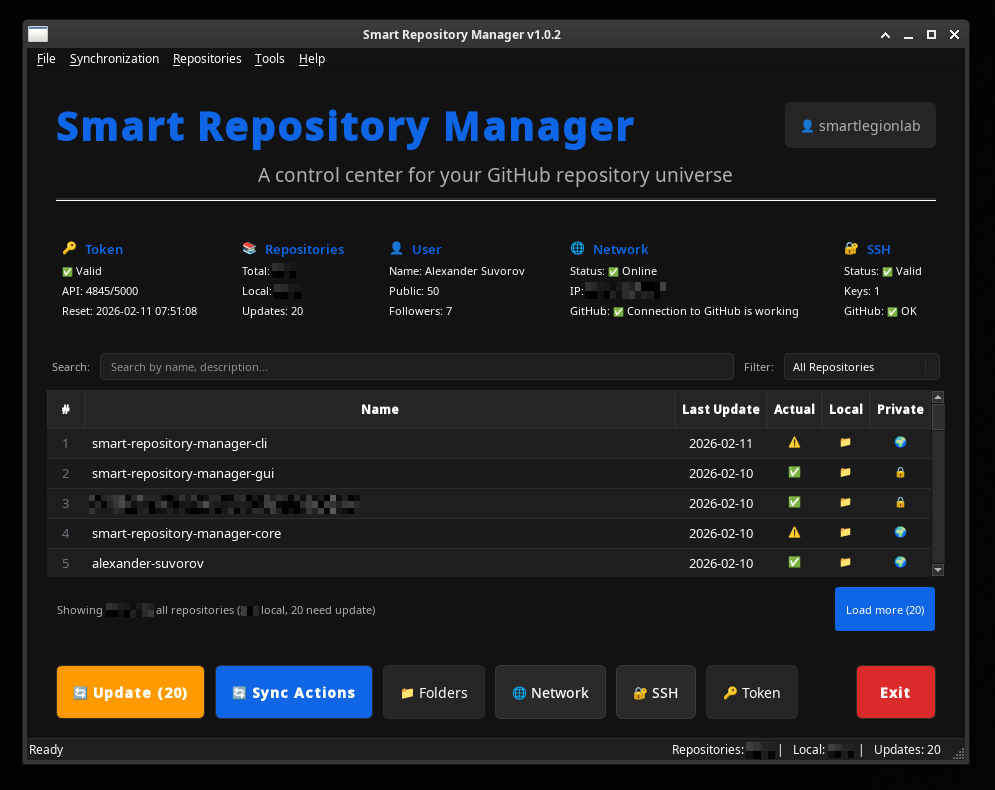
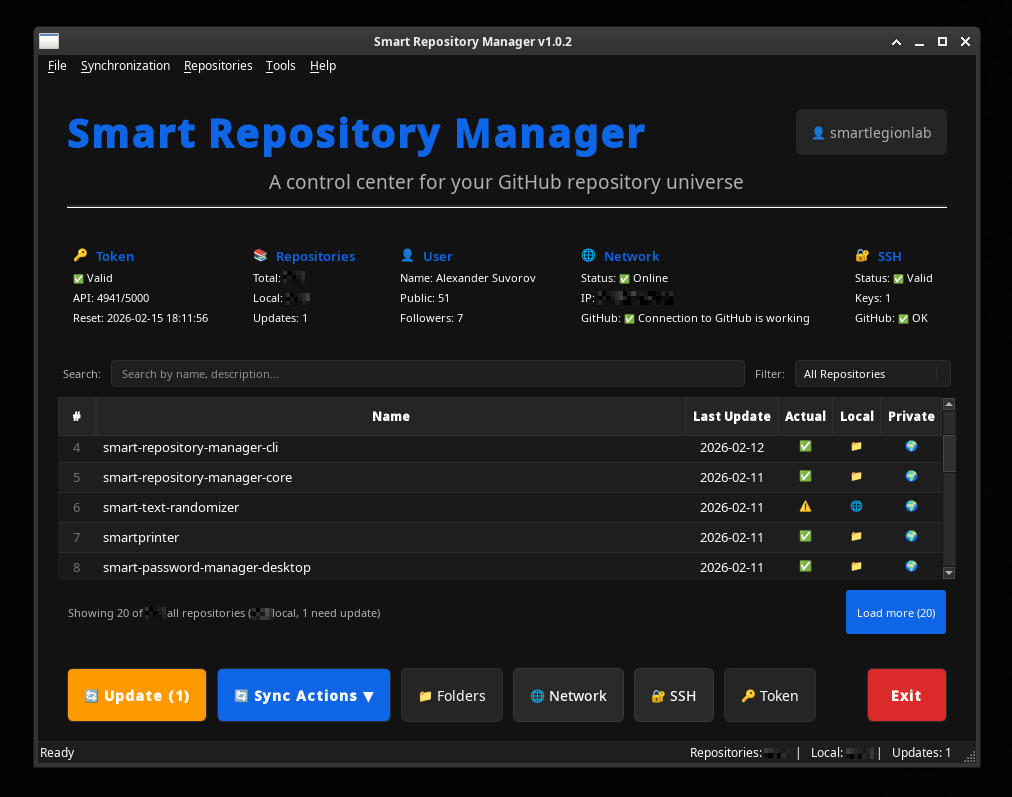
Smart Repository Manager GUI v1.0.2

diff --git a/smart_repository_manager_gui/__init__.py b/smart_repository_manager_gui/__init__.py
@@ -1,1 +1,1 @@
-__version__ = "v1.0.0"
+__version__ = "v1.0.2"

diff --git a/README.md b/README.md
@@ -1,4 +1,4 @@
-# Smart Repository Manager GUI <sup>v1.0.1</sup>
+# Smart Repository Manager GUI <sup>v1.0.2</sup>
 
 A powerful desktop application for managing GitHub repositories with intelligent synchronization, SSH configuration, and comprehensive visual management tools.
 
@@ -166,6 +166,12 @@ cat ~/.ssh/id_ed25519.pub  # Copy this output
 # Verify connection
 ssh -T git@github.com
 ```
+
+### Generate GitHub Token
+1. Visit [GitHub Tokens](https://github.com/settings/tokens/new)
+2. Select permissions:
+   - ✅ `repo` (full repository access)
+3. Generate and copy token
 
 After that, install and run the application:
 
